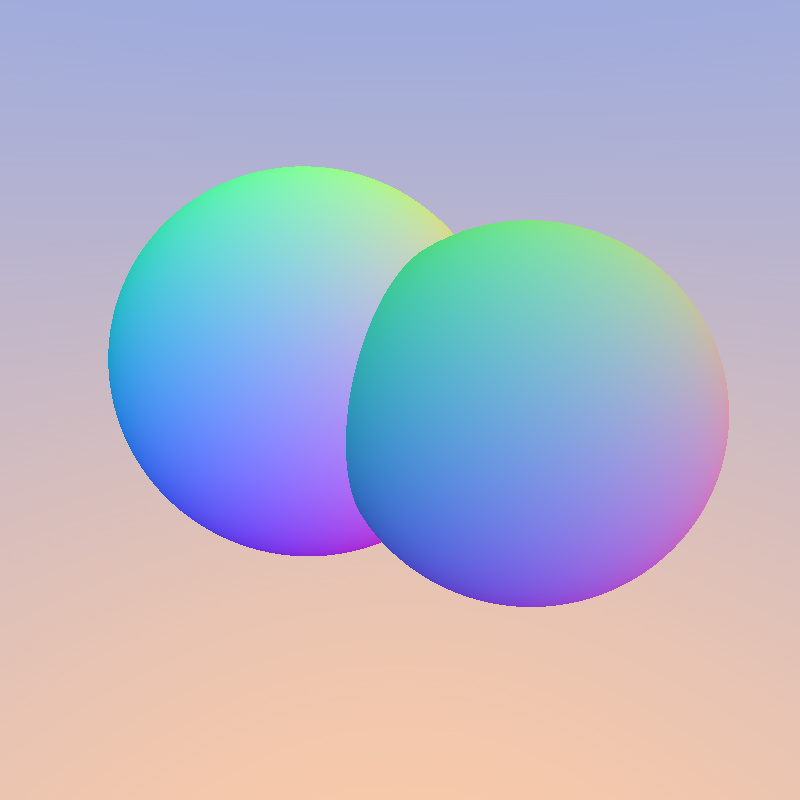
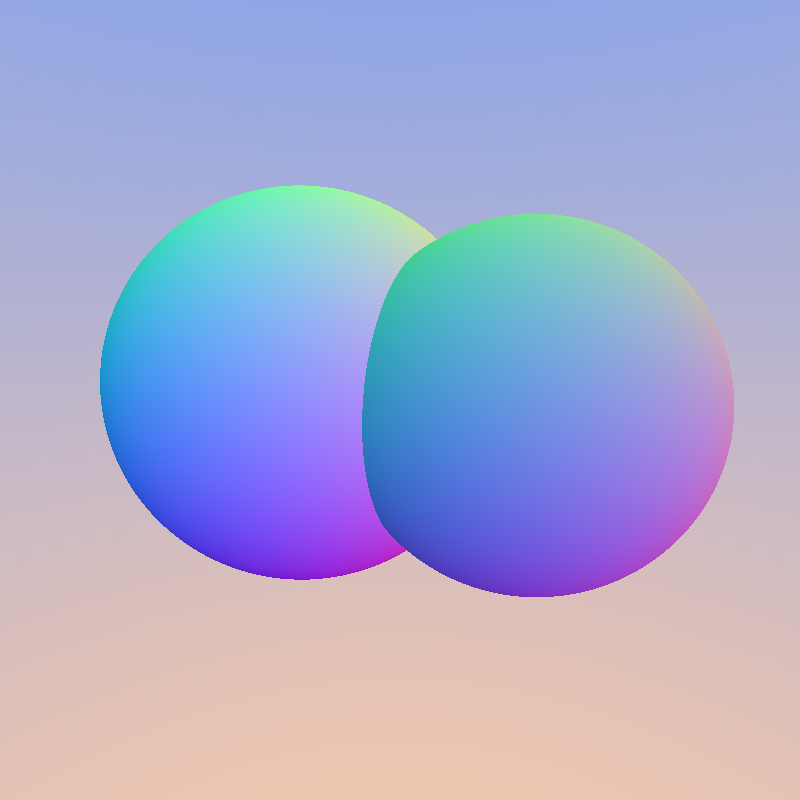
[Changed] Changed some ImGUI window settings, also added back second sphere

diff --git a/Hakner/Renderer.cpp b/Hakner/Renderer.cpp
@@ -24,6 +24,7 @@ namespace hakner
 			g_world.push_back({ { 0, 0, 0 }, {255,0,255,0}, 1.0f });
 			g_world.push_back({ { 1, 0, 0.5 }, {255,255,0,0}, 0.8f });
 
+			updateTimer.Start();
 			renderTimer.Start();
 		}
 
@@ -73,7 +74,8 @@ namespace hakner
 
 		void Renderer::Update()
 		{
-			float deltaTime = renderTimer.Delta() * 0.001f;
+			// Converted to seconds for ease of use in movement
+			float deltaTime = updateTimer.Delta() * 0.001f;
 
 			// ---------- Get move direction, align with camera, and update position ----------
 			Vector3 moveVector = Vector3{(float)moveHor, (float)moveVer, (float)moveWard};
@@ -144,8 +146,6 @@ namespace hakner
 
 		void IntersectWorld(Ray& ray, HitData& data)
 		{
-			Intersect(ray, data, g_world[0]);
-			return;
 			for (auto& currentSphere : g_world)
 			{
 				Intersect(ray, data, currentSphere);
@@ -190,6 +190,8 @@ namespace hakner
 
 		void Renderer::Render()
 		{
+			float deltaTime = renderTimer.Delta();
+
 			auto surface = AppWindow::State->backBuffer;
 			auto& window = *AppWindow::State;
 
@@ -220,13 +222,11 @@ namespace hakner
 				renderToFile = false;
 			}
 
-			ImGui::ShowMetricsWindow();
-			ImGui::ShowStyleEditor();
-
 			ImGui::SetNextWindowPos({0,0});
-			ImGui::Begin("Metrics");
+			ImGui::SetNextWindowSize({200, 80});
+			ImGui::Begin("Metrics", nullptr, ImGuiWindowFlags_NoMove | ImGuiWindowFlags_NoResize | ImGuiWindowFlags_NoDecoration);
 			
-			ImGui::Text("FPS: %f \n", 3.9f);
+			ImGui::Text(" %.2fms per frame \n", deltaTime);
 			
 			ImGui::End();
 		}

diff --git a/Hakner/AppWindow.cpp b/Hakner/AppWindow.cpp
@@ -13,10 +13,12 @@ void hakner::AppWindow::Initialize()
 
 	// Initialize SDL
 	LogAssert("SDL failed to initalize!", (SDL_Init(SDL_INIT_VIDEO) == 0));
-
 	// Create window
 	State->window = SDL_CreateWindow(State->title.c_str(), SDL_WINDOWPOS_UNDEFINED, SDL_WINDOWPOS_UNDEFINED, State->width, State->height, SDL_WINDOW_SHOWN);
 	LogAssert("SDL failed to create window!", State->window);
+
+	SDL_ShowCursor(SDL_FALSE);
+	SDL_SetRelativeMouseMode(SDL_TRUE);
 
 	// Creating SDL
 	State->backBuffer = new uint32_t[State->pixelCount];

diff --git a/Hakner/Renderer.h b/Hakner/Renderer.h
@@ -61,6 +61,7 @@ namespace hakner
 			} Camera;
 
 			// ---------- Misc ----------
+			inline Timer updateTimer;
 			inline Timer renderTimer;
 			inline bool renderToFile{ false };
 		}
